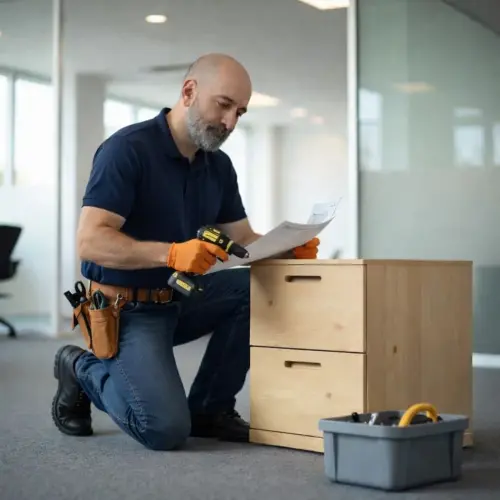
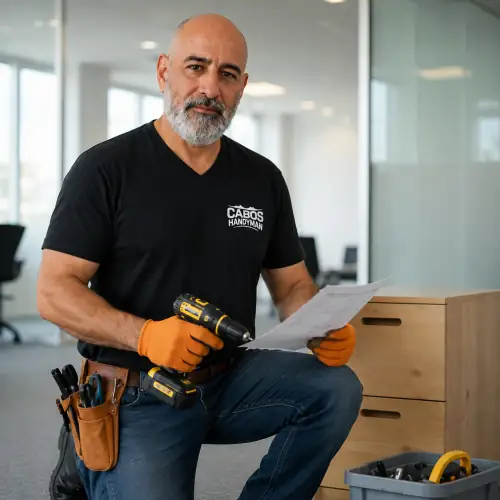
feat: show full portfolio photos and tidy card text
The new photos are full-body shots, so the fixed 256px frame was cutting
off heads and tools. Swaps the frame to a square that matches the 500x500
sources, so nothing is cropped at any breakpoint.

- Image frame h-64 -> aspect-square; drop the now-dead imagePosition
  field, since a square source in a square frame can never crop
- Cards become flex columns with the CTA pinned via mt-auto, so CTAs line
  up across a row regardless of title or tagline length
- Category becomes a small uppercase tracking label; add a divider above
  the CTA to separate action from description
- Correct the img width/height hints to the real 500x500 intrinsic size

Converts the three replacement photos to WebP (q66, 500x500) to match the
existing assets: modern-kitchen-remodel, commercial-office, luxury-bathroom.
Removes the superseded JPEG sources and the orphaned restaurant-buildout
assets.

diff --git a/src/components/MaintenanceMasterHomepage.tsx b/src/components/MaintenanceMasterHomepage.tsx
@@ -83,43 +83,37 @@ export default function CabosHandymanHomepage() {
       name: "Modern Kitchen",
       category: "Residential",
       image: kitchenImage,
-      alt: "Modern kitchen remodeling project in Cabo San Lucas featuring custom cabinets, granite countertops, and stainless steel appliances by Cabos Handyman",
-      imagePosition: "center 30%"
+      alt: "Modern kitchen remodeling project in Cabo San Lucas featuring custom cabinets, granite countertops, and stainless steel appliances by Cabos Handyman"
     },
     {
       name: "Luxury Bathroom",
       category: "Residential",
       image: bathroomImage,
-      alt: "Luxury bathroom renovation in Cabo San Lucas with custom tile work, modern fixtures, and elegant design by Cabos Handyman",
-      imagePosition: "center 35%"
+      alt: "Luxury bathroom renovation in Cabo San Lucas with custom tile work, modern fixtures, and elegant design by Cabos Handyman"
     },
     {
       name: "Commercial Office",
       category: "Commercial",
       image: officeImage,
-      alt: "Commercial office construction and renovation project in Cabo San Lucas with professional workspace design by Cabos Handyman",
-      imagePosition: "center 30%"
+      alt: "Commercial office construction and renovation project in Cabo San Lucas with professional workspace design by Cabos Handyman"
     },
     {
       name: "Home Addition",
       category: "Residential",
       image: homeImage,
-      alt: "Home addition and expansion project in Cabo San Lucas featuring new construction, structural work, and seamless integration by Cabos Handyman",
-      imagePosition: "center 35%"
+      alt: "Home addition and expansion project in Cabo San Lucas featuring new construction, structural work, and seamless integration by Cabos Handyman"
     },
     {
       name: "Community Center",
       category: "HOA",
       image: communityImage,
-      alt: "Community center construction and maintenance project in Cabo San Lucas for HOA and residential communities by Cabos Handyman",
-      imagePosition: "center 25%"
+      alt: "Community center construction and maintenance project in Cabo San Lucas for HOA and residential communities by Cabos Handyman"
     },
     {
       name: "Cabo Property Care",
       category: "Property Services",
       image: propertyCareImage,
       alt: "Property inspection and maintenance visit in Cabo San Lucas, with a technician documenting a home condition check as part of a Cabo Property Care plan by Cabos Handyman",
-      imagePosition: "center 35%",
       tagline: "Your property. Checked. Maintained. Protected.",
       href: "/property-care-plans",
       cta: "View Property Care →"
@@ -429,45 +423,44 @@ export default function CabosHandymanHomepage() {
             
             <div className="grid md:grid-cols-2 lg:grid-cols-3 gap-8">
               {projects.map((project, index) => {
-                const cardClassName = "bg-card rounded-xl overflow-hidden shadow-lg hover:shadow-xl transition-all duration-300 group cursor-pointer";
+                const cardClassName = "bg-card rounded-xl overflow-hidden shadow-lg hover:shadow-xl transition-all duration-300 group cursor-pointer flex flex-col h-full";
+                const ctaClassName = "mt-auto pt-4 border-t border-gray-100 text-left text-[#06756b] font-semibold text-sm group-hover:text-[#049d8e] transition-colors";
                 const cardBody = (
                   <>
-                    <div className="h-64 bg-muted overflow-hidden">
+                    {/* Square frame matches the 500x500 sources, so nothing is cropped */}
+                    <div className="aspect-square bg-muted overflow-hidden">
                       <img
                         src={project.image}
                         alt={project.alt}
                         loading={index === 0 ? "eager" : "lazy"}
                         fetchPriority={index === 0 ? "high" : undefined}
                         decoding="async"
-                        width="600"
-                        height="400"
+                        width="500"
+                        height="500"
                         className="w-full h-full object-cover group-hover:scale-110 transition-transform duration-500"
-                        style={{ objectPosition: project.imagePosition }}
                       />
                     </div>
-                    <div className="p-6">
-                      <div className="text-sm text-[#06756b] font-semibold mb-2">{project.category}</div>
-                      <h3 className="text-xl font-bold text-card-foreground group-hover:text-[#06756b] transition-colors">
+                    <div className="p-6 flex flex-col flex-1">
+                      <div className="text-xs font-semibold uppercase tracking-wider text-[#06756b] mb-2">
+                        {project.category}
+                      </div>
+                      <h3 className="text-xl font-bold leading-snug text-card-foreground group-hover:text-[#06756b] transition-colors">
                         {project.name}
                       </h3>
                       {project.tagline && (
-                        <p className="mt-2 text-sm text-gray-700">{project.tagline}</p>
+                        <p className="mt-2 text-sm leading-relaxed text-gray-700">{project.tagline}</p>
                       )}
                       {project.href ? (
-                        <span className="mt-4 block text-[#06756b] font-semibold text-sm group-hover:text-[#049d8e] transition-colors">
-                          {project.cta}
-                        </span>
+                        <span className={`${ctaClassName} block`}>{project.cta}</span>
                       ) : (
-                        <button className="mt-4 text-[#06756b] font-semibold text-sm hover:text-[#049d8e] transition-colors">
-                          View Services & Pricing →
-                        </button>
+                        <button className={ctaClassName}>View Services &amp; Pricing →</button>
                       )}
                     </div>
                   </>
                 );
 
                 return project.href ? (
-                  <a key={index} href={project.href} className={`${cardClassName} block`}>
+                  <a key={index} href={project.href} className={cardClassName}>
                     {cardBody}
                   </a>
                 ) : (
